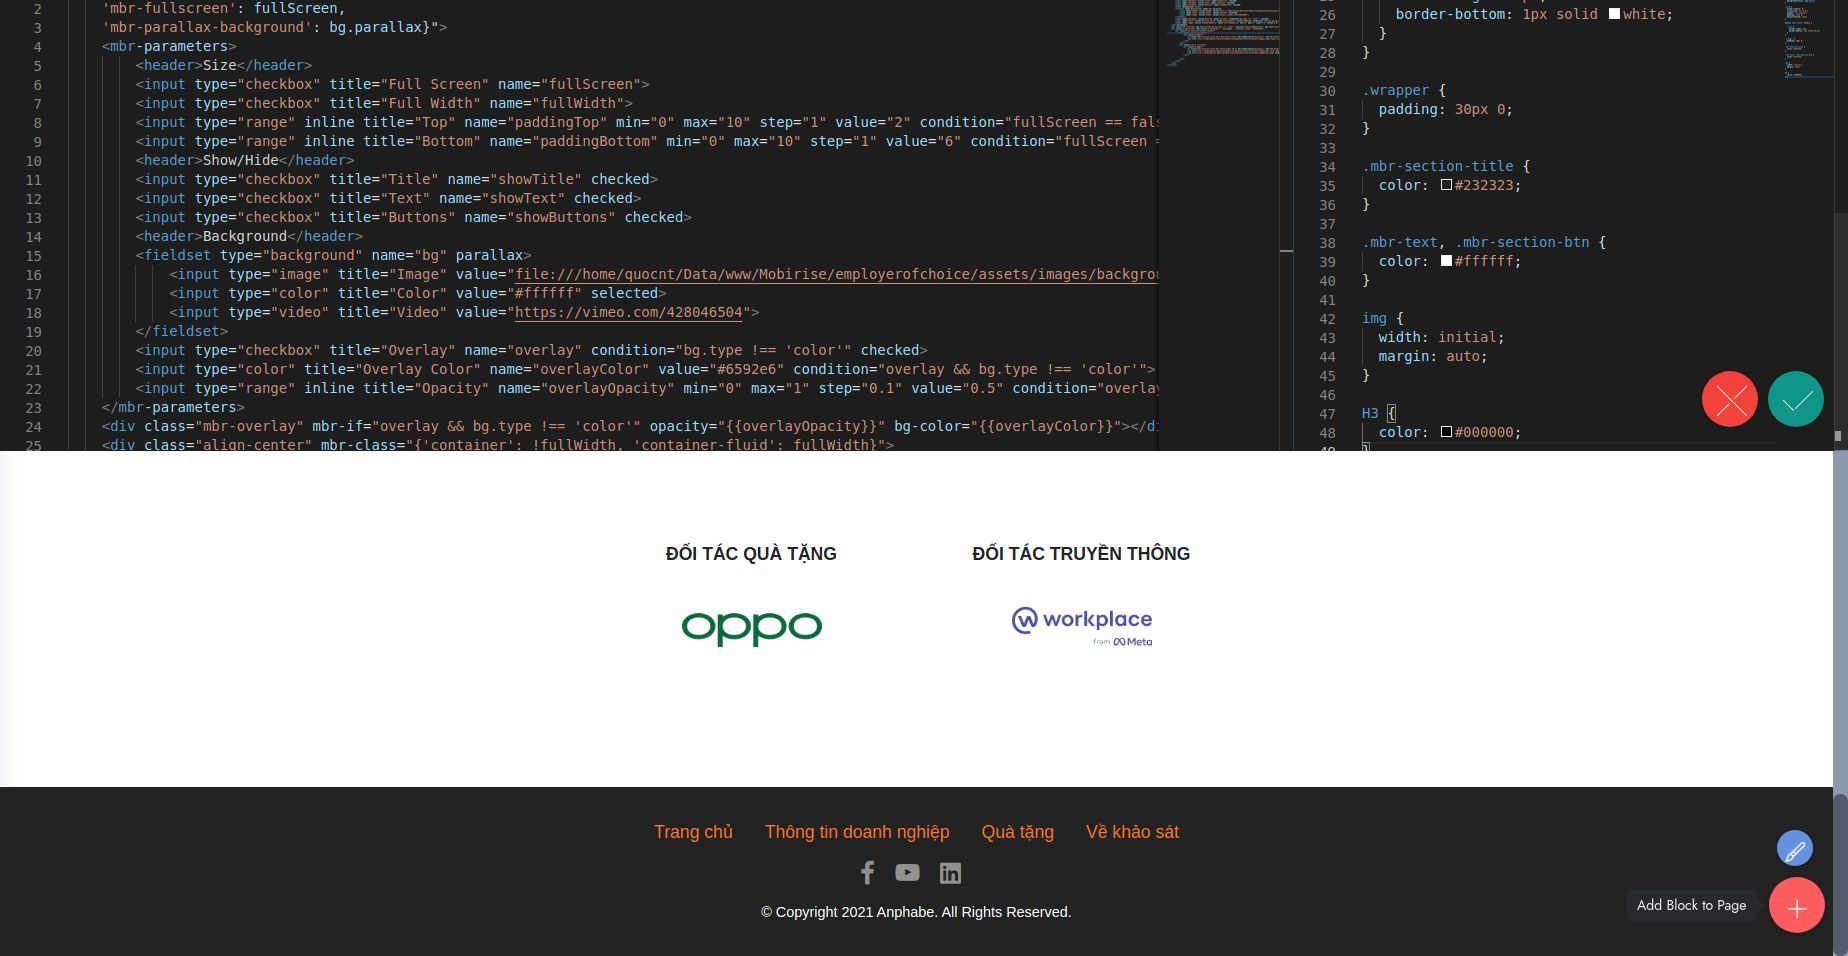
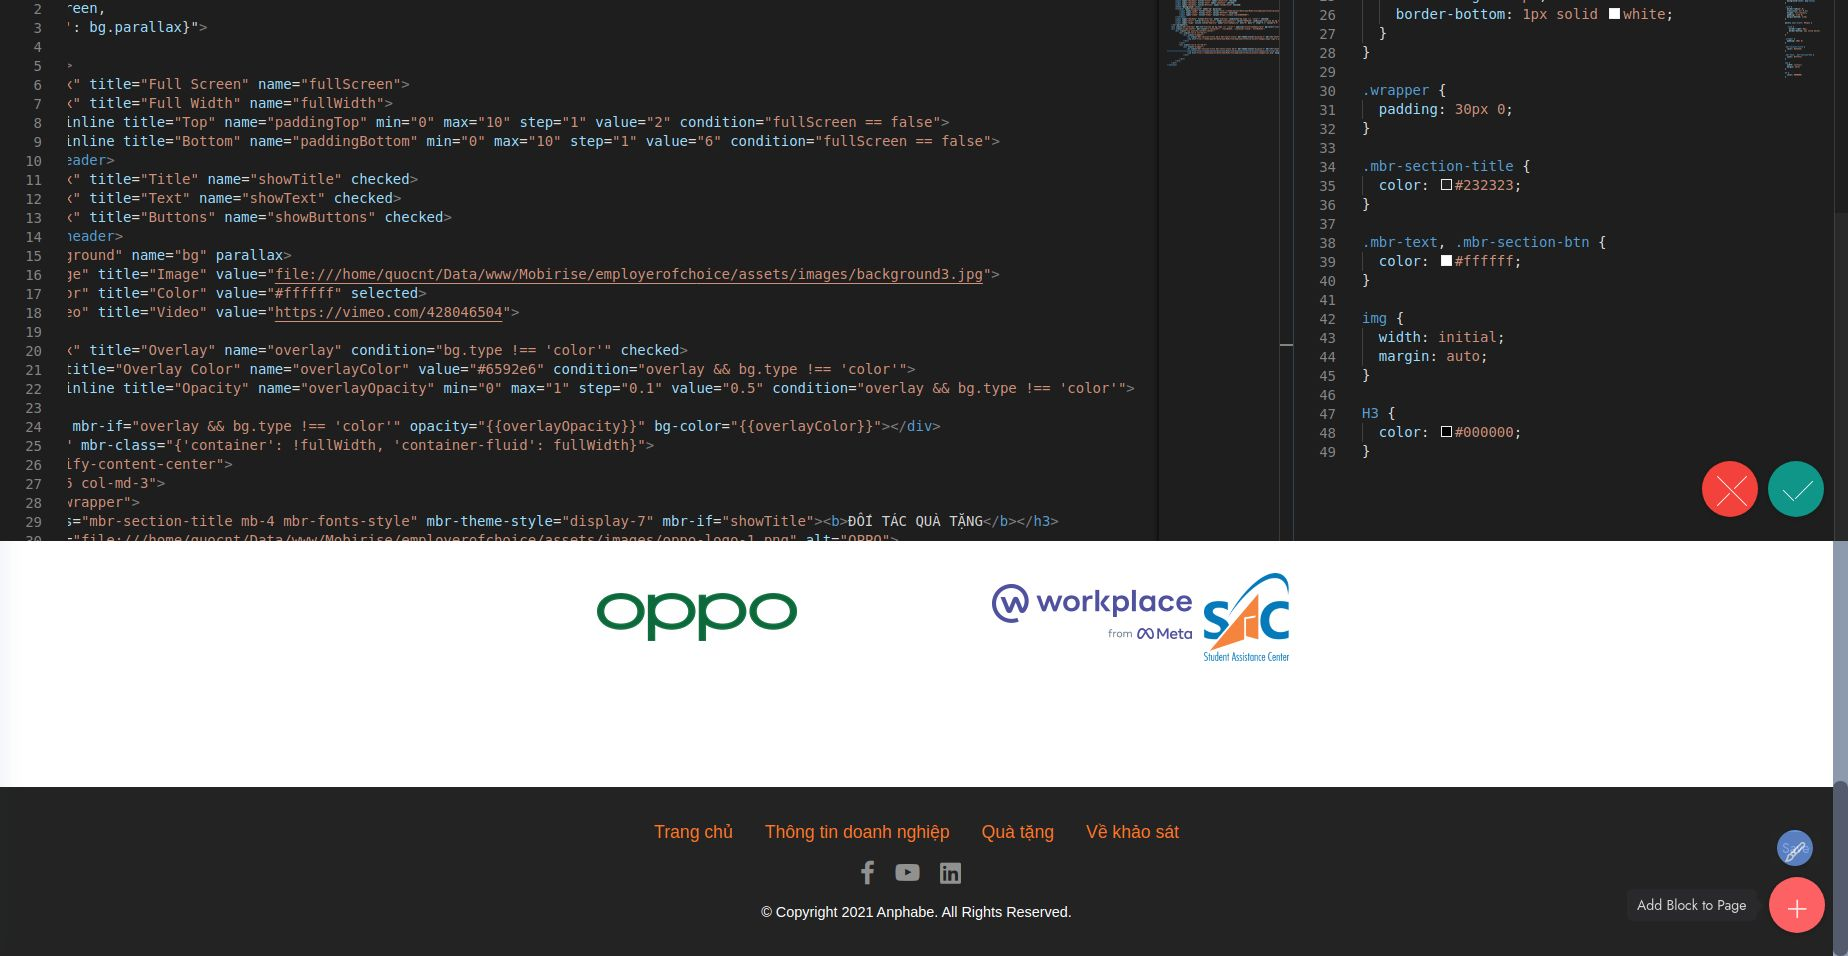
update

Changed region(s): [[0.0, 0.0, 1.0, 0.6977], [0.9562, 0.8494, 0.987, 0.91], [0.987, 0.819, 1.0, 0.8494]]

diff --git a/index.html b/index.html
@@ -216,15 +216,15 @@ height="0" width="0" style="display:none;visibility:hidden"></iframe></noscript>
         <div class="row justify-content-center">
             <div class="col-12 col-md-10">
                 
-                <div id="bootstrap-accordion_18" class="panel-group accordionStyles accordion" role="tablist" aria-multiselectable="true">
+                <div id="bootstrap-accordion_5" class="panel-group accordionStyles accordion" role="tablist" aria-multiselectable="true">
                     <div class="card mb-3">
                         <div class="card-header" role="tab" id="headingOne">
-                            <a role="button" class="panel-title collapsed" data-toggle="collapse" data-bs-toggle="collapse" data-core="" href="#collapse1_18" aria-expanded="false" aria-controls="collapse1">
+                            <a role="button" class="panel-title collapsed" data-toggle="collapse" data-bs-toggle="collapse" data-core="" href="#collapse1_5" aria-expanded="false" aria-controls="collapse1">
                                 <h6 class="panel-title-edit mbr-fonts-style mb-0 display-4"><strong>Đối tượng tham gia khảo sát Thương Hiệu Nhà Tuyển Dụng Hấp Dẫn Nhất Với Sinh Viên Việt Nam gồm những ai?</strong></h6>
                                 <span class="sign mbr-iconfont mbri-arrow-down"></span>
                             </a>
                         </div>
-                        <div id="collapse1_18" class="panel-collapse noScroll collapse" role="tabpanel" aria-labelledby="headingOne" data-parent="#accordion" data-bs-parent="#bootstrap-accordion_18">
+                        <div id="collapse1_5" class="panel-collapse noScroll collapse" role="tabpanel" aria-labelledby="headingOne" data-parent="#accordion" data-bs-parent="#bootstrap-accordion_5">
                             <div class="panel-body">
                                 <p class="mbr-fonts-style panel-text display-7">Khảo sát Thương Hiệu Nhà Tuyển Dụng Hấp Dẫn Nhất Với Sinh Viên Việt Nam hướng đến các bạn sinh viên từ năm nhất đến năm cuối tại tất cả các trường Đại học, Cao đẳng trên cả nước. </p>
                             </div>
@@ -232,12 +232,12 @@ height="0" width="0" style="display:none;visibility:hidden"></iframe></noscript>
                     </div>
                     <div class="card mb-3">
                         <div class="card-header" role="tab" id="headingOne">
-                            <a role="button" class="panel-title collapsed" data-toggle="collapse" data-bs-toggle="collapse" data-core="" href="#collapse2_18" aria-expanded="false" aria-controls="collapse2">
+                            <a role="button" class="panel-title collapsed" data-toggle="collapse" data-bs-toggle="collapse" data-core="" href="#collapse2_5" aria-expanded="false" aria-controls="collapse2">
                                 <h6 class="panel-title-edit mbr-fonts-style mb-0 display-4"><strong>Mục đích của khảo sát này là gì?</strong></h6>
                                 <span class="sign mbr-iconfont mbri-arrow-down"></span>
                             </a>
                         </div>
-                        <div id="collapse2_18" class="panel-collapse noScroll collapse" role="tabpanel" aria-labelledby="headingOne" data-parent="#accordion" data-bs-parent="#bootstrap-accordion_18">
+                        <div id="collapse2_5" class="panel-collapse noScroll collapse" role="tabpanel" aria-labelledby="headingOne" data-parent="#accordion" data-bs-parent="#bootstrap-accordion_5">
                             <div class="panel-body">
                                 <p class="mbr-fonts-style panel-text display-7">Khảo sát Thương Hiệu Nhà Tuyển Dụng Hấp Dẫn Nhất Với Sinh Viên Việt Nam nhằm đánh giá sức hấp dẫn của các doanh nghiệp tại thị trường Việt Nam trong mắt các bạn sinh viên trong tình hình mới. Bên cạnh đó, khảo sát cũng hi vọng nhận được chia sẻ chi tiết hơn về những thay đổi trong quá trình định hướng, các nguyện vọng và kỳ vọng của sinh viên Việt Nam cũng như sự sẵn sàng cho công việc đầu tiên sau hai năm ảnh hưởng bởi đại dịch.</p>
                                 <p class="mbr-fonts-style panel-text display-7">Câu trả lời của bạn sẽ đóng góp vào những phân tích quan trọng và cung cấp góc nhìn quý báu giúp doanh nghiệp xây dựng chiến lược và môi trường làm việc thu hút hơn cho chính các bạn, đồng thời quyết định kết quả danh sách những nơi làm việc hấp dẫn nhất với sinh viên Việt Nam 2022.</p>
@@ -246,12 +246,12 @@ height="0" width="0" style="display:none;visibility:hidden"></iframe></noscript>
                     </div>
                     <div class="card mb-3">
                         <div class="card-header" role="tab" id="headingOne">
-                            <a role="button" class="panel-title collapsed" data-toggle="collapse" data-bs-toggle="collapse" data-core="" href="#collapse3_18" aria-expanded="false" aria-controls="collapse3">
+                            <a role="button" class="panel-title collapsed" data-toggle="collapse" data-bs-toggle="collapse" data-core="" href="#collapse3_5" aria-expanded="false" aria-controls="collapse3">
                                 <h6 class="panel-title-edit mbr-fonts-style mb-0 display-4"><strong>Khảo sát này có an toàn và bảo mật không?</strong></h6>
                                 <span class="sign mbr-iconfont mbri-arrow-down"></span>
                             </a>
                         </div>
-                        <div id="collapse3_18" class="panel-collapse noScroll collapse" role="tabpanel" aria-labelledby="headingOne" data-parent="#accordion" data-bs-parent="#bootstrap-accordion_18">
+                        <div id="collapse3_5" class="panel-collapse noScroll collapse" role="tabpanel" aria-labelledby="headingOne" data-parent="#accordion" data-bs-parent="#bootstrap-accordion_5">
                             <div class="panel-body">
                                 <p class="mbr-fonts-style panel-text display-7">Khảo sát Thương Hiệu Nhà Tuyển Dụng Hấp Dẫn Nhất Với Sinh Viên Việt Nam do Anphabe thực hiện trên diện rộng, hoàn toàn độc lập. Mọi câu trả lời trong khảo sát đều được áp dụng quy trình bảo mật thông tin chặt chẽ. </p>
                                 <p class="mbr-fonts-style panel-text display-7">Khảo sát này được bảo trợ bởi Phòng thương mại và công thương Việt Nam (VCCI). Mô hình khảo sát và phương pháp đánh giá của chương trình khảo sát hằng năm đều được kiểm chứng bởi đơn vị thứ ba là công ty nghiên cứu thị trường Intage Việt Nam. </p>
@@ -261,12 +261,12 @@ height="0" width="0" style="display:none;visibility:hidden"></iframe></noscript>
                     </div>
                     <div class="card mb-3">
                         <div class="card-header" role="tab" id="headingOne">
-                            <a role="button" class="panel-title collapsed" data-toggle="collapse" data-bs-toggle="collapse" data-core="" href="#collapse4_18" aria-expanded="false" aria-controls="collapse4">
+                            <a role="button" class="panel-title collapsed" data-toggle="collapse" data-bs-toggle="collapse" data-core="" href="#collapse4_5" aria-expanded="false" aria-controls="collapse4">
                                 <h6 class="panel-title-edit mbr-fonts-style mb-0 display-4"><strong>Quà tặng của khảo sát là gì?</strong></h6>
                                 <span class="sign mbr-iconfont mbri-arrow-down"></span>
                             </a>
                         </div>
-                        <div id="collapse4_18" class="panel-collapse noScroll collapse" role="tabpanel" aria-labelledby="headingOne" data-parent="#accordion" data-bs-parent="#bootstrap-accordion_18">
+                        <div id="collapse4_5" class="panel-collapse noScroll collapse" role="tabpanel" aria-labelledby="headingOne" data-parent="#accordion" data-bs-parent="#bootstrap-accordion_5">
                             <div class="panel-body">
                                 <p class="mbr-fonts-style panel-text display-7">Đáp viên hoàn thành Khảo sát hợp lệ sẽ nhận ngay một (01) mã rút thăm may mắn, với cơ hội sở hữu:</p>
                                 <ul class="list mbr-fonts-style display-7">
@@ -279,12 +279,12 @@ height="0" width="0" style="display:none;visibility:hidden"></iframe></noscript>
                     </div>
                     <div class="card mb-3">
                         <div class="card-header" role="tab" id="headingOne">
-                            <a role="button" class="panel-title collapsed" data-toggle="collapse" data-bs-toggle="collapse" data-core="" href="#collapse5_18" aria-expanded="false" aria-controls="collapse5">
+                            <a role="button" class="panel-title collapsed" data-toggle="collapse" data-bs-toggle="collapse" data-core="" href="#collapse5_5" aria-expanded="false" aria-controls="collapse5">
                                 <h6 class="panel-title-edit mbr-fonts-style mb-0 display-4"><strong>Điều khoản chương trình rút thăm may mắn thế nào?</strong></h6>
                                 <span class="sign mbr-iconfont mbri-arrow-down"></span>
                             </a>
                         </div>
-                        <div id="collapse5_18" class="panel-collapse noScroll collapse" role="tabpanel" aria-labelledby="headingOne" data-parent="#accordion" data-bs-parent="#bootstrap-accordion_18">
+                        <div id="collapse5_5" class="panel-collapse noScroll collapse" role="tabpanel" aria-labelledby="headingOne" data-parent="#accordion" data-bs-parent="#bootstrap-accordion_5">
                             <div class="panel-body">
                                 <p class="mbr-fonts-style panel-text display-7">Đáp viên may mắn sẽ được hệ thống lựa chọn ngẫu nhiên và gửi thông báo về quà tặng qua email đã đăng ký khi tham gia khảo sát. Đáp viên may mắn vui lòng xác nhận thông tin nhận quà qua email trong vòng 03 ngày làm việc kể từ khi nhận thông báo trúng thưởng của Ban tổ chức.</p>
                                 <p class="mbr-fonts-style panel-text display-7">Việc quay số may mắn được thực hiện vào thứ 6 hằng tuần và kết quả được thông báo trên kênh Facebook chính thức của Anphabe: <a href="https://www.facebook.com/anphabe" class="text-primary" target="_blank">https://www.facebook.com/anphabe</a></p>
@@ -300,12 +300,12 @@ height="0" width="0" style="display:none;visibility:hidden"></iframe></noscript>
                     </div>
                     <div class="card mb-3">
                         <div class="card-header" role="tab" id="headingOne">
-                            <a role="button" class="panel-title collapsed" data-toggle="collapse" data-bs-toggle="collapse" data-core="" href="#collapse6_18" aria-expanded="false" aria-controls="collapse6">
+                            <a role="button" class="panel-title collapsed" data-toggle="collapse" data-bs-toggle="collapse" data-core="" href="#collapse6_5" aria-expanded="false" aria-controls="collapse6">
                                 <h6 class="panel-title-edit mbr-fonts-style mb-0 display-4"><strong>Đối tượng tham gia chương trình rút thăm may mắn là những ai?</strong></h6>
                                 <span class="sign mbr-iconfont mbri-arrow-down"></span>
                             </a>
                         </div>
-                        <div id="collapse6_18" class="panel-collapse noScroll collapse" role="tabpanel" aria-labelledby="headingOne" data-parent="#accordion" data-bs-parent="#bootstrap-accordion_18">
+                        <div id="collapse6_5" class="panel-collapse noScroll collapse" role="tabpanel" aria-labelledby="headingOne" data-parent="#accordion" data-bs-parent="#bootstrap-accordion_5">
                             <div class="panel-body">
                                 <p class="mbr-fonts-style panel-text display-7">
                                     Tất cả đáp viên hoàn thành khảo sát hợp lệ đều có cơ hội tham gia chương trình quay số may mắn diễn ra hàng tuần và hàng tháng. Đáp viên may mắn nhận giải thưởng tuần vẫn có cơ hội tham dự và trúng giải thưởng tháng.</p>
@@ -314,12 +314,12 @@ height="0" width="0" style="display:none;visibility:hidden"></iframe></noscript>
                     </div>
                     <div class="card mb-3">
                         <div class="card-header" role="tab" id="headingOne">
-                            <a role="button" class="panel-title collapsed" data-toggle="collapse" data-bs-toggle="collapse" data-core="" href="#collapse7_18" aria-expanded="false" aria-controls="collapse7">
+                            <a role="button" class="panel-title collapsed" data-toggle="collapse" data-bs-toggle="collapse" data-core="" href="#collapse7_5" aria-expanded="false" aria-controls="collapse7">
                                 <h6 class="panel-title-edit mbr-fonts-style mb-0 display-4"><strong>Vì sao hoàn thành khảo sát nhưng chưa nhận được email?</strong></h6>
                                 <span class="sign mbr-iconfont mbri-arrow-down"></span>
                             </a>
                         </div>
-                        <div id="collapse7_18" class="panel-collapse noScroll collapse" role="tabpanel" aria-labelledby="headingOne" data-parent="#accordion" data-bs-parent="#bootstrap-accordion_18">
+                        <div id="collapse7_5" class="panel-collapse noScroll collapse" role="tabpanel" aria-labelledby="headingOne" data-parent="#accordion" data-bs-parent="#bootstrap-accordion_5">
                             <div class="panel-body">
                                 <p class="mbr-fonts-style panel-text display-7">Sau khi hoàn thành khảo sát hợp lệ, Anphabe sẽ gửi thông báo kết quả và mã rút thăm may mắn qua email mà đáp viên đã đăng ký ở bước hoàn thành khảo sát. Bạn kiểm tra trong hộp thư rác (spam), quảng cáo và có thể tìm kiếm từ khóa "Anphabe Team" trong hộp email.</p>
                                 <p class="mbr-fonts-style panel-text display-7">Nếu vẫn chưa thấy, bạn vui lòng để lại thông tin email qua hộp thư trên Fanpage, Anphabe sẽ kiểm tra hệ thống và hỗ trợ bạn chi tiết.</p>
@@ -430,17 +430,17 @@ height="0" width="0" style="display:none;visibility:hidden"></iframe></noscript>
     
     <div class="align-center container">
         <div class="row justify-content-center">
-            <div class="col-6 col-md-4">
+            <div class="col-6 col-md-3">
                 <div class="wrapper">
                     <h3 class="mbr-section-title mb-4 mbr-fonts-style display-7"><strong>ĐỐI TÁC QUÀ TẶNG</strong></h3>
                     <img src="assets/images/oppo-logo-1.png" alt="OPPO">
                 </div>
             </div>
-            <div class="col-6 col-md-4">
+            <div class="col-6 col-md-3">
                 <div class="wrapper">
                     <h3 class="mbr-section-title mbr-fonts-style mb-4 display-7"><strong>ĐỐI TÁC TRUYỀN THÔNG</strong></h3>
-                    <img src="assets/images/wp-2.png" height="88" class="d-inline-block px-2" alt="Workplace from Meta">
-                    <img src="assets/images/sac.png" height="88" class="d-inline-block" alt="SAC">
+                    <img src="assets/images/wp-2.png" height="88" class="d-block" alt="Workplace from Meta">
+                    <img src="assets/images/sac.png" height="88" class="d-block" alt="SAC">
                 </div>
                 
             </div>

diff --git a/thongtinquatang.html b/thongtinquatang.html
@@ -338,17 +338,17 @@ height="0" width="0" style="display:none;visibility:hidden"></iframe></noscript>
     
     <div class="align-center container">
         <div class="row justify-content-center">
-            <div class="col-6 col-md-4">
+            <div class="col-6 col-md-3">
                 <div class="wrapper">
                     <h3 class="mbr-section-title mb-4 mbr-fonts-style display-7"><strong>ĐỐI TÁC QUÀ TẶNG</strong></h3>
                     <img src="assets/images/oppo-logo-1.png" alt="OPPO">
                 </div>
             </div>
-            <div class="col-6 col-md-4">
+            <div class="col-6 col-md-3">
                 <div class="wrapper">
                     <h3 class="mbr-section-title mbr-fonts-style mb-4 display-7"><strong>ĐỐI TÁC TRUYỀN THÔNG</strong></h3>
-                    <img src="assets/images/wp-2.png" height="88" class="d-inline-block px-2" alt="Workplace from Meta">
-                    <img src="assets/images/sac.png" height="88" class="d-inline-block" alt="SAC">
+                    <img src="assets/images/wp-2.png" height="88" class="d-block" alt="Workplace from Meta">
+                    <img src="assets/images/sac.png" height="88" class="d-block" alt="SAC">
                 </div>
                 
             </div>
